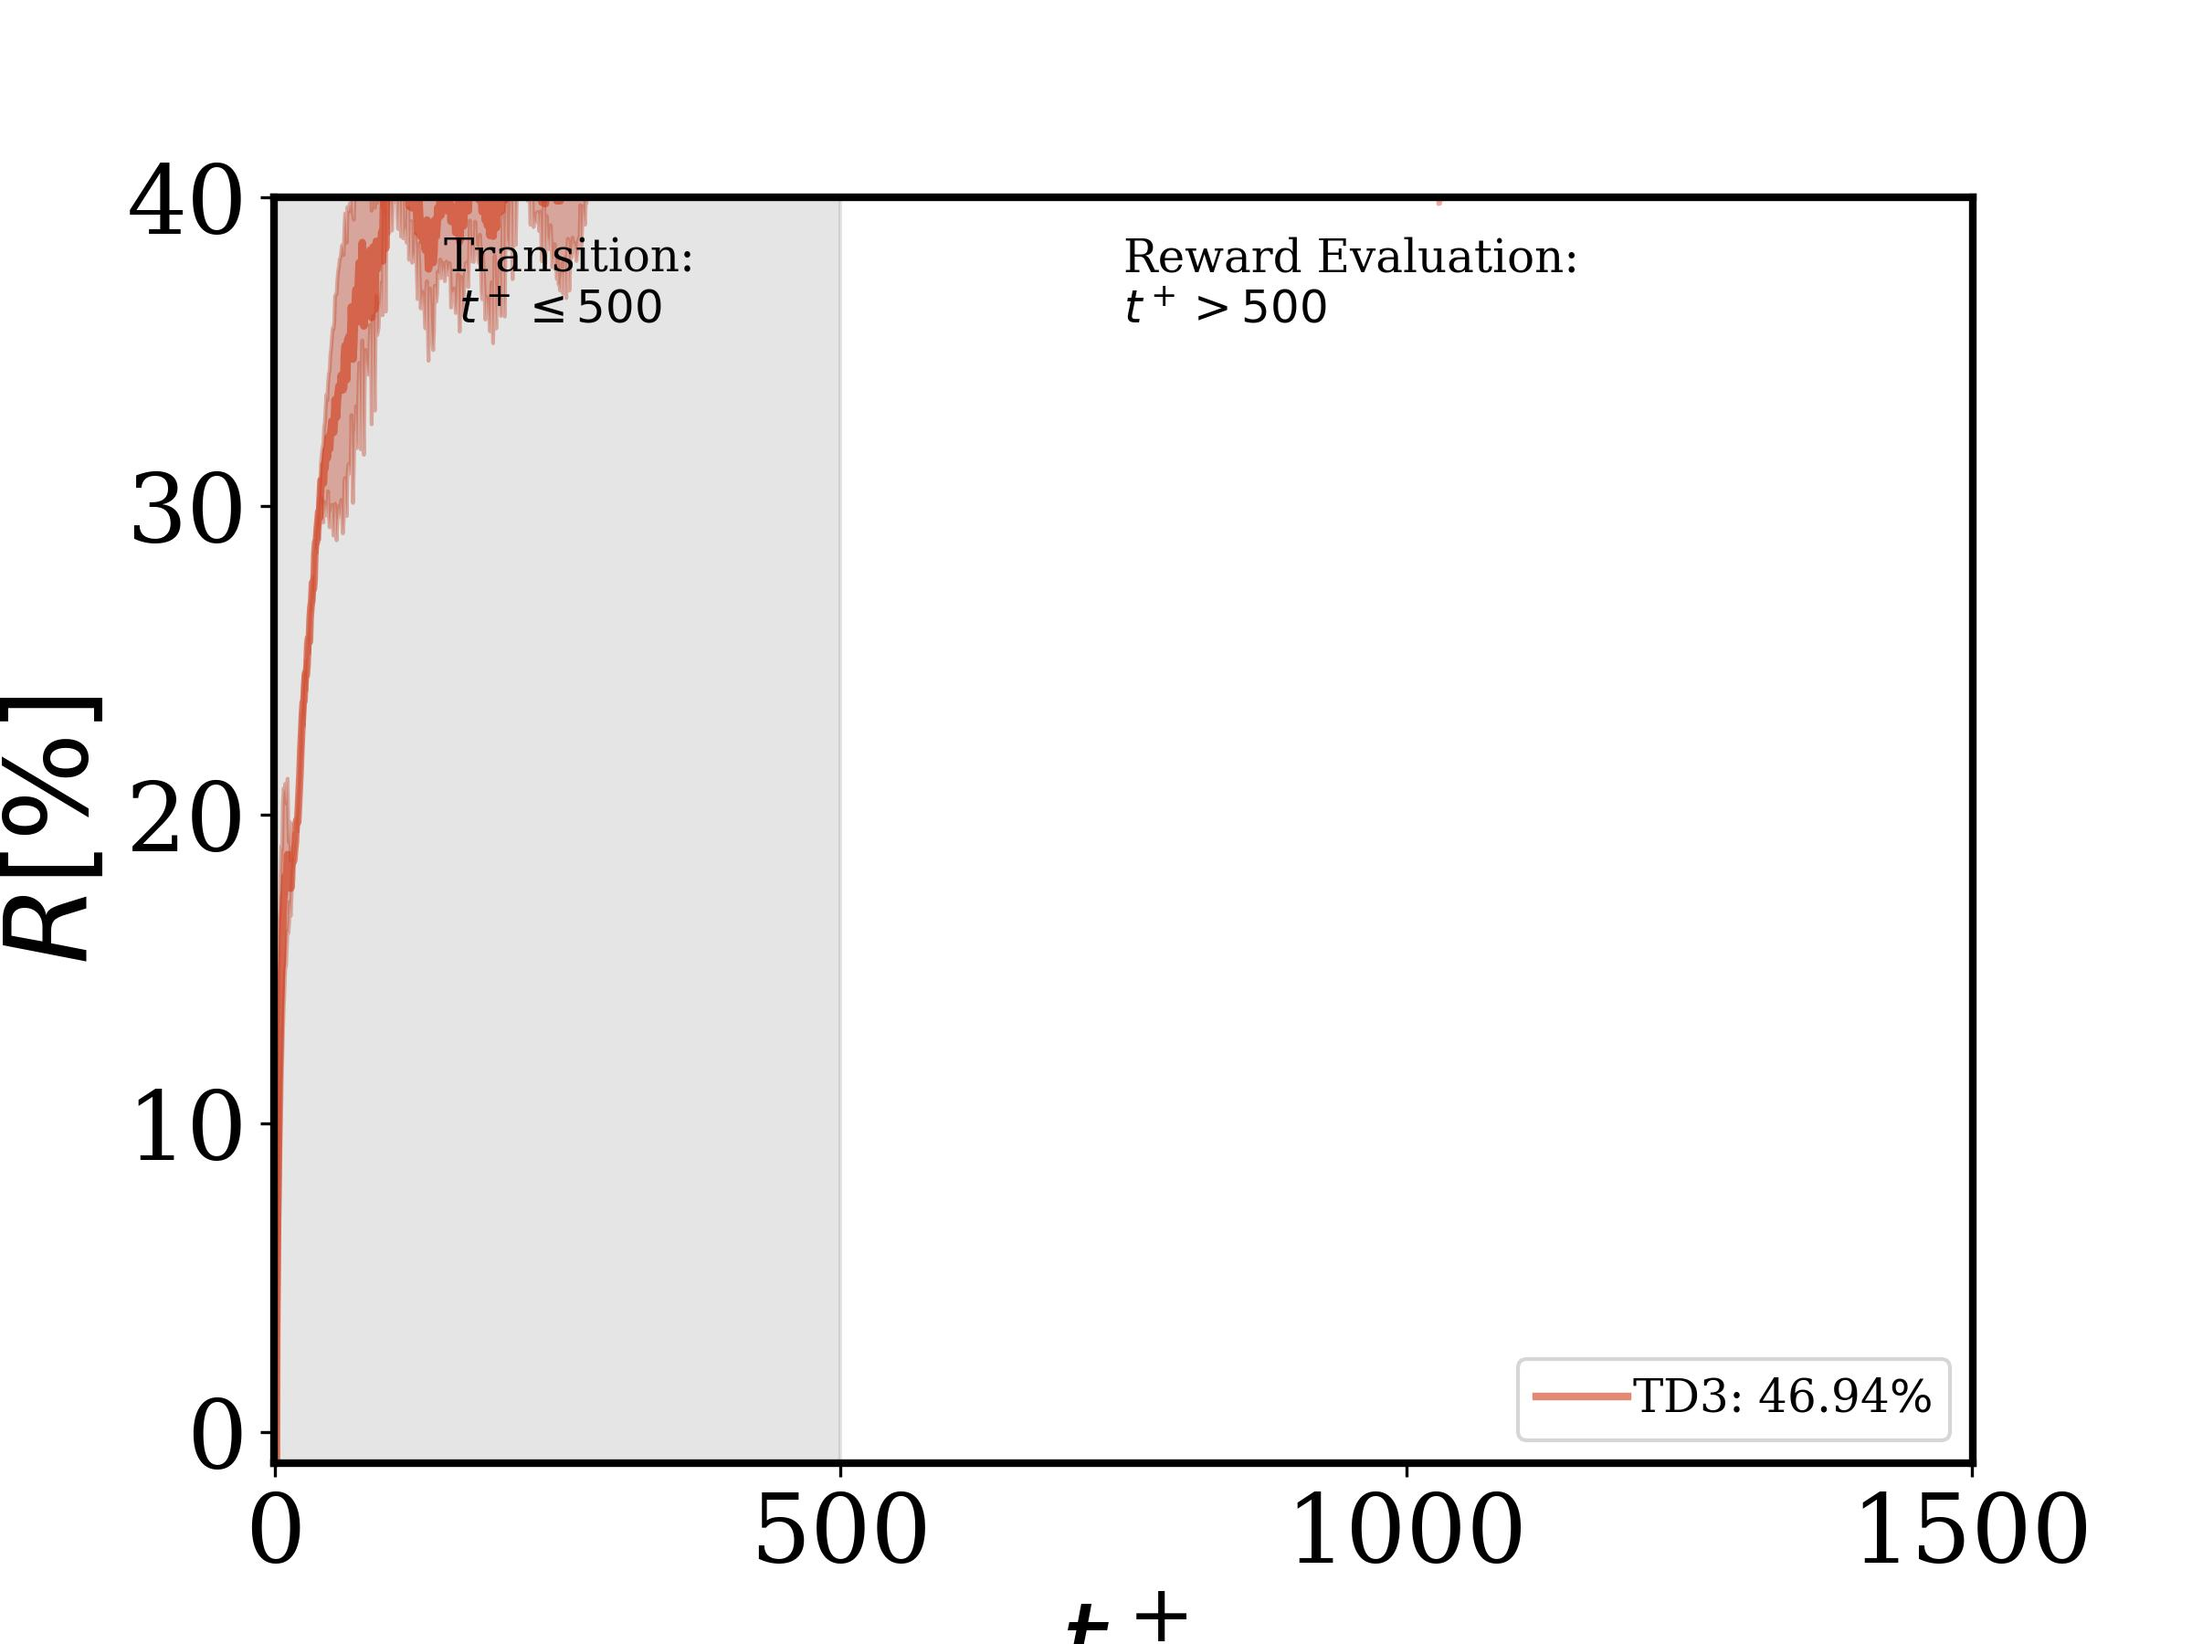
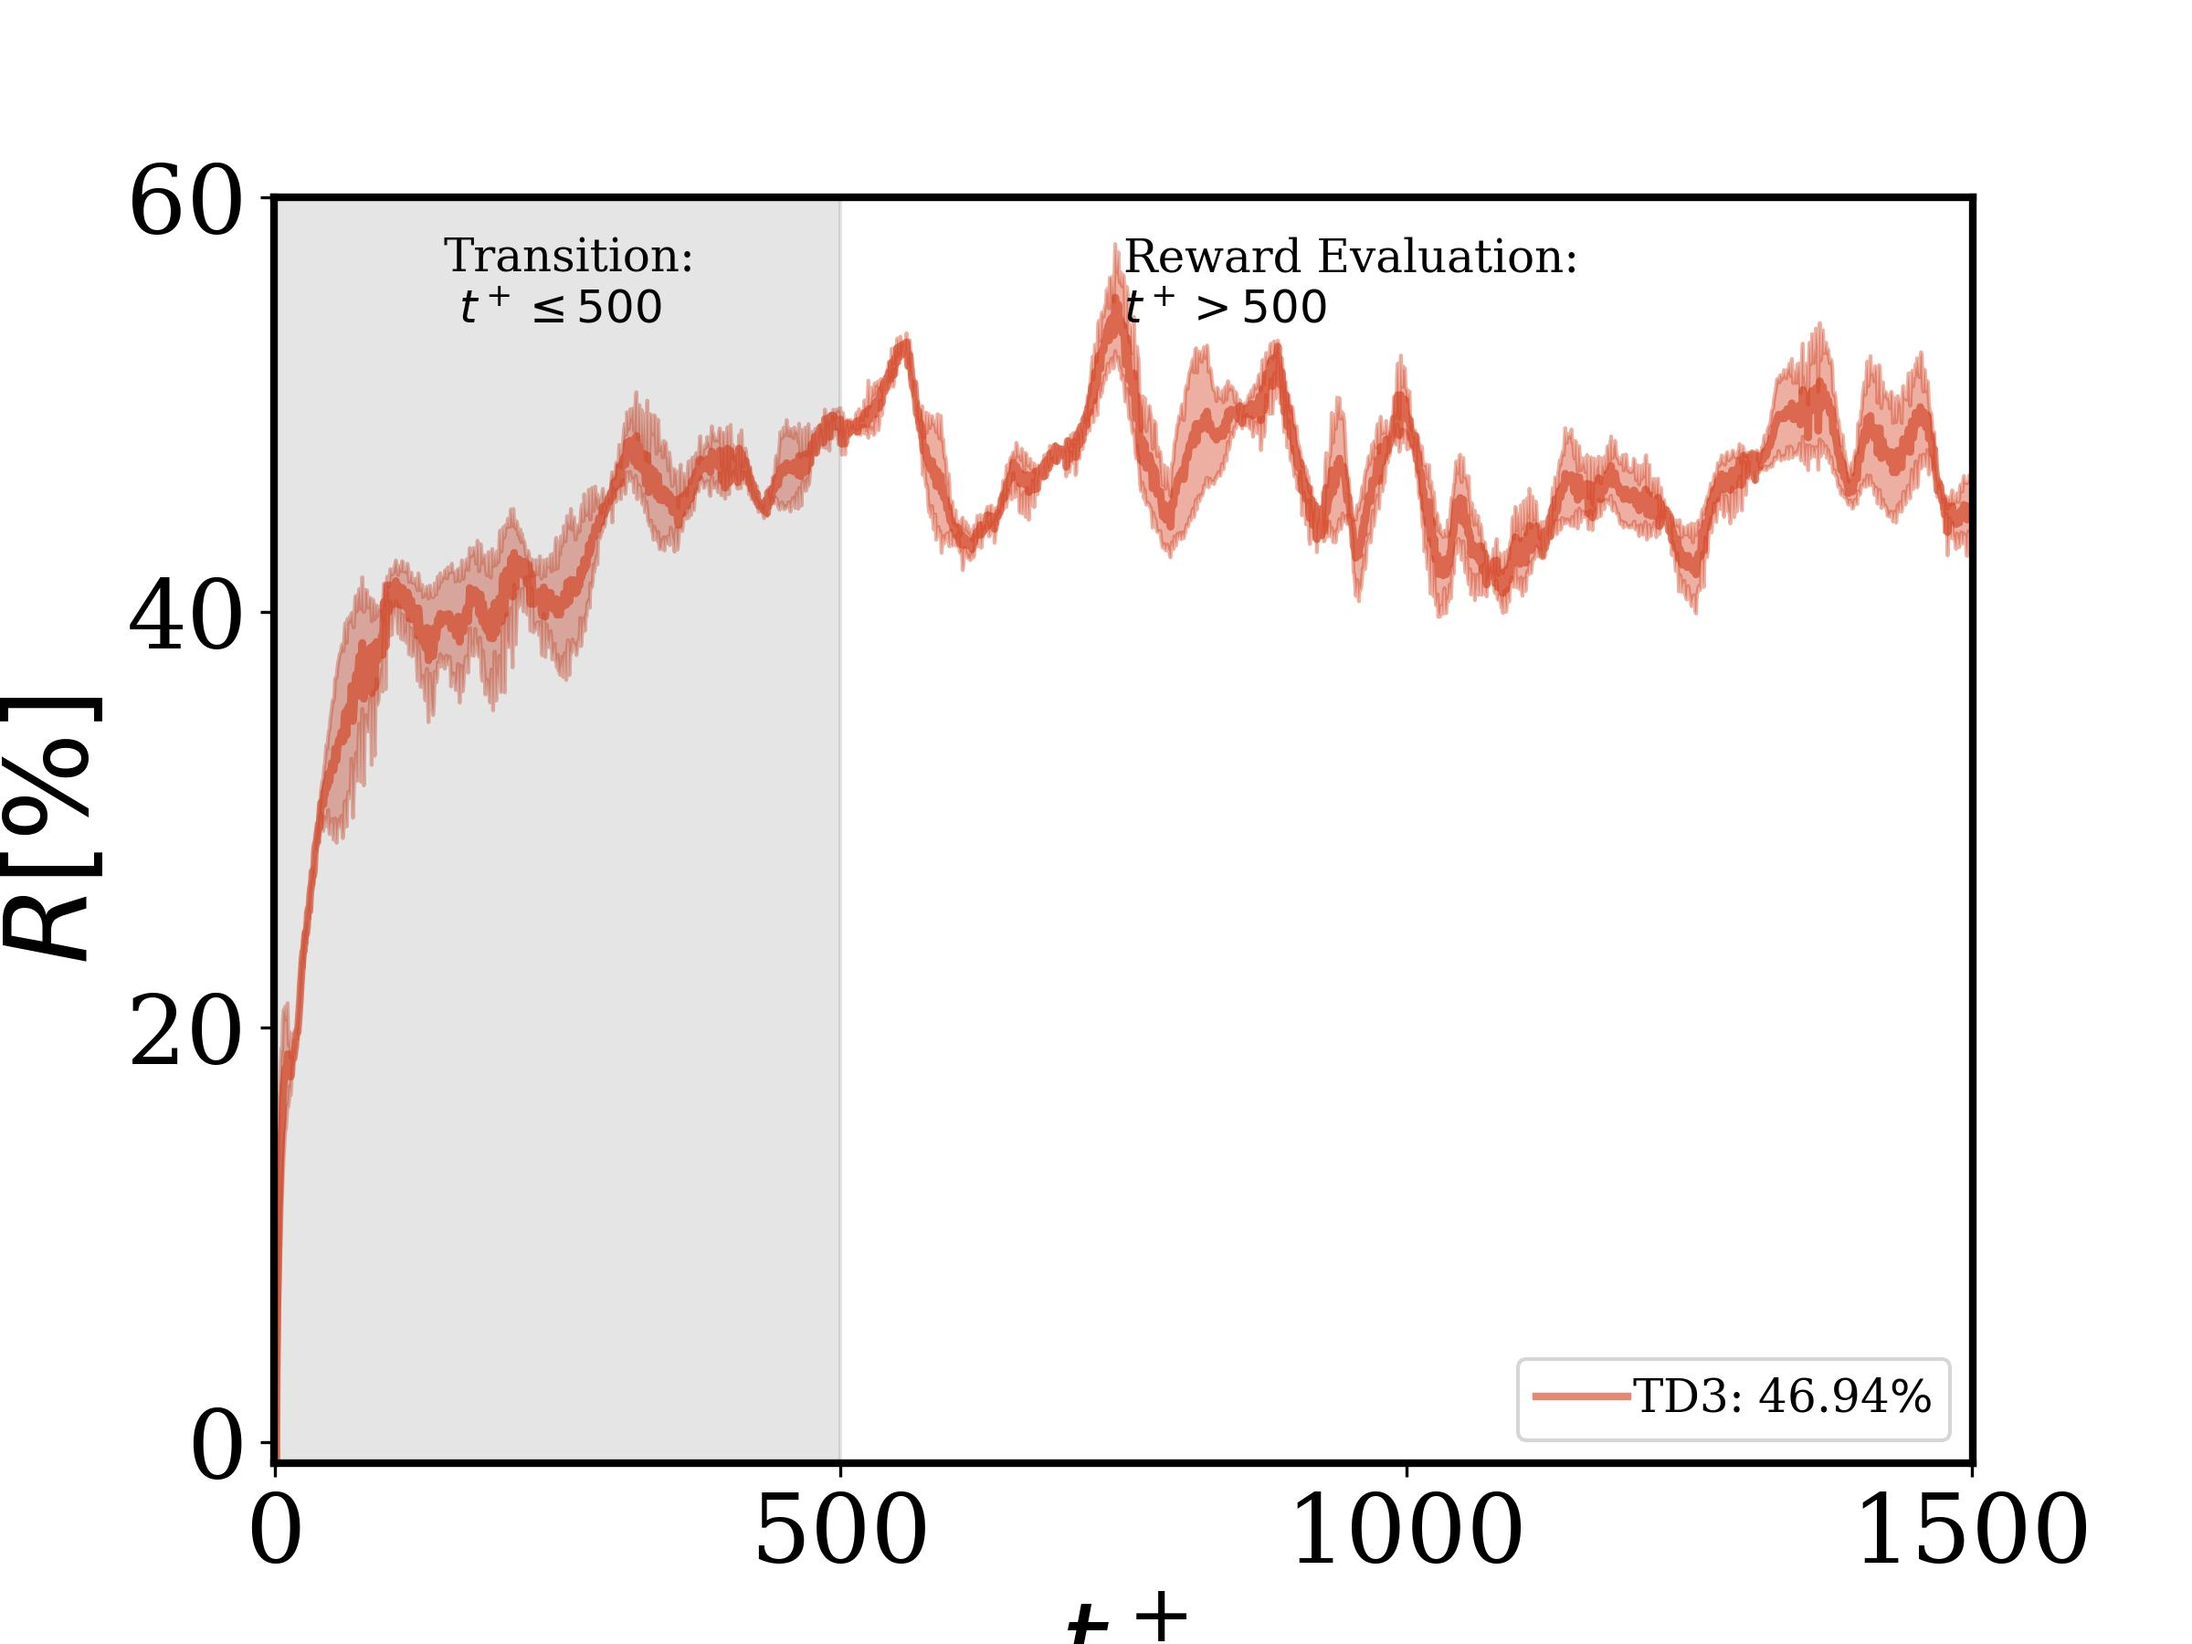
update the post-processing

Changed region(s): [[0.0625, 0.1244, 0.9062, 0.7156], [0.0938, 0.84, 0.125, 0.9022], [0.0625, 0.0933, 0.0938, 0.1556]]

diff --git a/post_processing/deterministic.py b/post_processing/deterministic.py
@@ -1,5 +1,5 @@
-import os
-import copy
+import os, copy
+import argparse
 import numpy as np
 import matplotlib.pyplot as plt
 import pandas as pd
@@ -12,13 +12,22 @@ from postlib.determine import (
     load_reward_monitor_case,
     PDF,
 )
+parser = argparse.ArgumentParser()
+parser.add_argument("--run_path", default="../runs/")
+parser.add_argument("--fig_path", default="Figs/")
+parser.add_argument("--table_path", default="Tables/")
+parser.add_argument("--save_fig",action='store_true')
+parser.add_argument("--show_fig",action='store_true')
+args = parser.parse_args()
 
 plt_setUp()
-
-run_path = "../runs/"
-fig_path = "Figs/"
+run_path = args.run_path
+fig_path = args.fig_path
+table_path = args.table_path
 if not os.path.exists(fig_path):
     os.makedirs(fig_path)
+if not os.path.exists(table_path):
+    os.makedirs(table_path)
 
 # --- Style ---
 STYLE_OC_RED_A06  = make_style(cc.red,       0.6, 'X', 'OC')
@@ -26,9 +35,15 @@ STYLE_DDPG_GR_A06 = make_style(cc.deepgreen, 0.6, 'D', 'DDPG')
 STYLE_PPO_BL_A06  = make_style(cc.blue,      0.6, 'o', 'PPO')
 
 # --- Case Configuration ---
-SAVE_IMG = True
+SAVE_IMG=False; SHOW_IMG=False
+if args.save_fig:
+    SAVE_IMG = args.save_fig
+if args.show_fig:
+    SHOW_IMG = args.show_fig
+
 Head = 'Reth365'
 case_tuple = [
+    [2001, 'TD3',   STYLE_OC_RED_A06],
     [2001, 'TD3',   STYLE_OC_RED_A06],
 ]
 case_list  = [c[0] for c in case_tuple]
@@ -70,20 +85,30 @@ for il, case in enumerate(case_dict.keys()):
 axs.axvspan(xmin=0, xmax=500, color='gray', alpha=0.2)
 axs.text(0.1, 0.9, "Transition:\n" + r"$\ t^+ \leq 500$", transform=axs.transAxes, fontsize=12)
 axs.text(0.5, 0.9, "Reward Evaluation:\n" + r"$t^+ > 500$",  transform=axs.transAxes, fontsize=12)
-axs.set(xlabel=r"$t^+$", xlim=[-1, 1501], ylim=[-1, 40], ylabel=r"$R [\%]$")
+axs.set(xlabel=r"$t^+$", xlim=[-1, 1501], ylim=[-1, 60], ylabel=r"$R [\%]$")
 axs.legend(prop={"size": 12}, loc='lower right')
 
 if SAVE_IMG:
     out = fig_path + f'{Head}_Reward_Deterministic.jpg'
     plt.savefig(out, dpi=300)
     print(f'Saved {out}')
-plt.show()
+if SHOW_IMG:
+    plt.show()
 
 # ---------------------------------------------------------------------------
 # Reward Monitor (per-component reward time series, all envs)
 # ---------------------------------------------------------------------------
+### Start a panda database to store the avg. results for t+ > 500
+df = {"case_name":[],
+      "rwd_tau_mean":[],"rwd_pw_mean":[],"rwd_v3_mean":[], # individial terms
+      "R_mean":[],"NP_mean":[], # pure DR & Net-pow saving
+      "rwd_tau_std":[],"rwd_pw_std":[],"rwd_v3_std":[], # individial terms
+      "R_std":[],"NP_std":[], # pure DR & Net-pow saving
+      }
+
 COLORS_COMP = ['#2E59A7', '#D23918', '#2CA02C', '#9467BD', '#8C564B']
-label_and_scale= [(r'$\tau_w$', 'linear'), (r"$|p'_w v_w|$", "log"), (r'$|\rho v^3_w|$', "log"),]
+label_and_scale= [(r'$\tau_w$', 'linear',[0.001,0.005]), 
+                  (r"$|p'_w v_w|$", "log",[1e-6,1e-2]), (r'$|\rho v^3_w|$', "log",[1e-8,1e-2])]
 
 for il, case in enumerate(case_dict.keys()):
     case_path  = os.path.join(run_path, str(case))
@@ -95,9 +120,12 @@ for il, case in enumerate(case_dict.keys()):
     )
     Re=np.abs(float(case_dict[case]['conf']['simulation']['viscosity']))
     utau=float(case_dict[case]['conf']['runner']['u_tau'])
+    dUdy=float(case_dict[case]['conf']['runner']['dUdy'])
+    tau_w_ref = dUdy/Re
     t_star = (1/Re)/ utau**2
     time -= time[0]  # align the start time to 0
     time = time / t_star
+    t500 = np.where(time >= 500)[0]
 
     K, N, M = reward_array.shape
     mean_r = reward_array.mean(axis=0)   # [N, M]
@@ -115,9 +143,9 @@ for il, case in enumerate(case_dict.keys()):
         ax.plot(time, mean_r[jl], lw=1.6, color=color,
                 label=f'{name}  (mean and std, {K} envs)')
         ax.set_ylabel(label_and_scale_[0],fontsize=18)
+        ax.set_ylim(label_and_scale_[2])
         if label_and_scale_[1] == 'log':
             ax.set_yscale('log',)
-        
         ax.grid(True, alpha=0.3)
         ax.legend(fontsize=9, loc='upper right')
 
@@ -130,6 +158,31 @@ for il, case in enumerate(case_dict.keys()):
         fig.savefig(out, dpi=200)
         print(f'Saved {out}')
 
+    # Calculate R and NP
+    df['case_name'].append(run_name)
+    ### tau_w
+    df['rwd_tau_mean'].append(mean_r[0][t500].mean())
+    df['rwd_tau_std'].append(std_r[0][t500].mean())
+    ### pv_w
+    df['rwd_pw_mean'].append(mean_r[1][t500].mean())
+    df['rwd_pw_std'].append(std_r[1][t500].mean())
+    ### v3
+    df['rwd_v3_mean'].append(mean_r[2][t500].mean())
+    df['rwd_v3_std'].append(std_r[2][t500].mean())
+    ### R = 1 - tau_w/tau_w
+    df['R_mean'].append(1 - df['rwd_tau_mean'][-1] / tau_w_ref)
+    df['R_std'].append(df['rwd_tau_std'][-1] / tau_w_ref * df['R_mean'][-1])
+    ### NP = 1 - (tau_w + pv + v3)/tau_w_ref
+    df['NP_mean'].append(1 - (df['rwd_tau_mean'][-1] + df['rwd_pw_mean'][-1] + df['rwd_v3_mean'][-1]) / tau_w_ref)
+    df['NP_std'].append((df['rwd_tau_std'][-1] + df['rwd_pw_std'][-1] + df['rwd_v3_std'][-1]) / tau_w_ref * df['NP_mean'][-1])
+
+# Convert into Np array then output
+for key in df.keys():
+    if 'case_name' not in key:
+        df[key] = np.array(df[key])
+df = pd.DataFrame(df)
+df.to_csv(os.path.join(table_path, f'{Head}_NP_Summary.csv'), index=False, float_format='%.2e')
+print(df.head(10))
 # ---------------------------------------------------------------------------
 # Action Inspect
 # ---------------------------------------------------------------------------
@@ -179,7 +232,9 @@ if SAVE_IMG:
     out = fig_path + f'{Head}_Action_Deterministic.jpg'
     plt.savefig(out, dpi=300)
     print(f'Saved {out}')
-plt.show()
+if SHOW_IMG:
+    plt.show()
+quit()
 
 # ---------------------------------------------------------------------------
 # Observation Inspect
@@ -235,4 +290,5 @@ if SAVE_IMG:
     out = fig_path + f'{Head}_Observation_Deterministic.jpg'
     plt.savefig(out, dpi=300)
     print(f'Saved {out}')
-plt.show()
+if SHOW_IMG:
+    plt.show()
